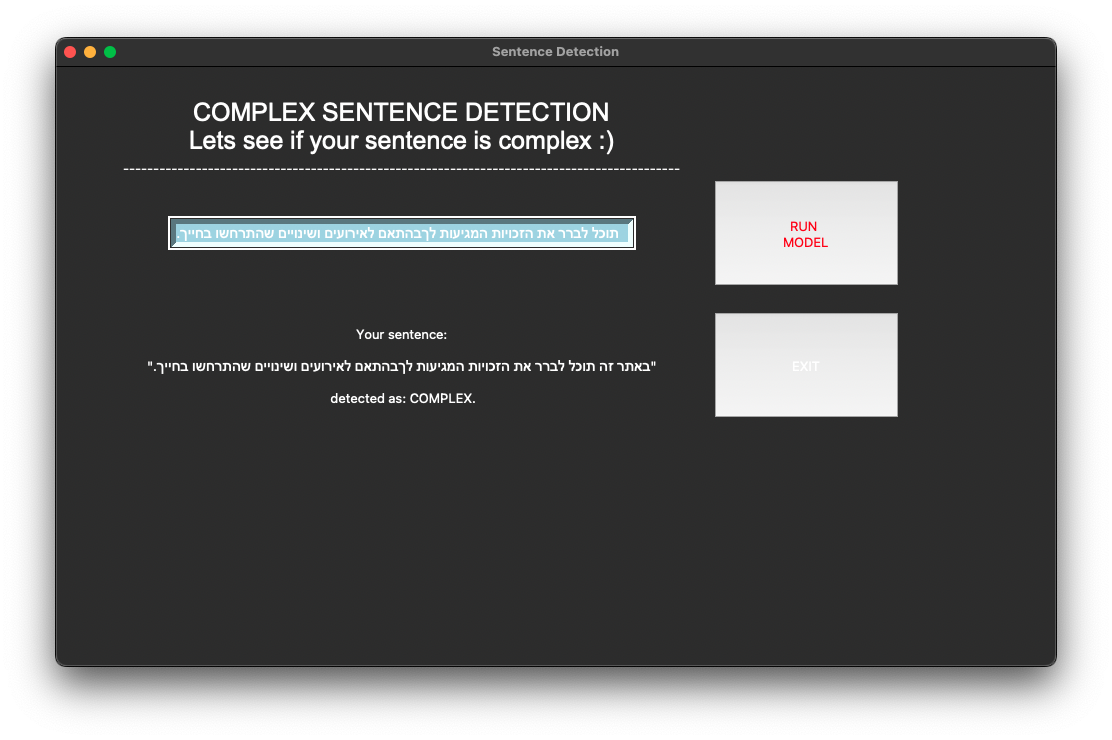
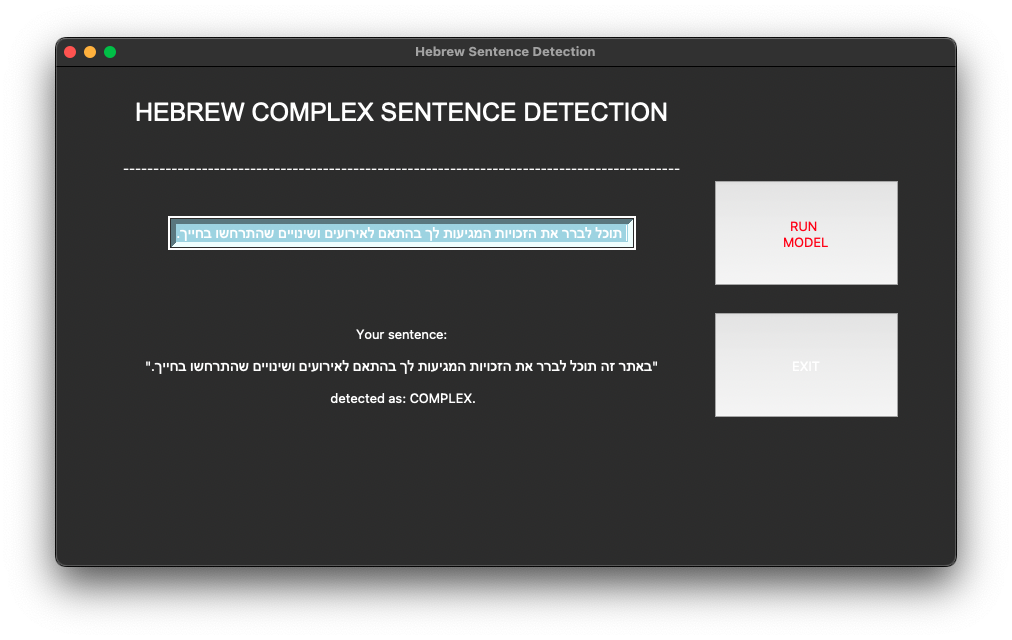
img

diff --git a/app.py b/app.py
@@ -326,14 +326,14 @@ def sentenceSimplification():
 
 
 userUI = Tk()
-userUI.title('Sentence Detection')
-userUI.geometry("1000x600")
+userUI.title('Hebrew Sentence Detection')
+userUI.geometry("900x500")
 
 
 kav = Label(userUI, text='                ')
 kav.grid(row=0, column=0)
 
-headerLabel = Label(userUI, text='\nCOMPLEX SENTENCE DETECTION\nLets see if your sentence is complex :)', font=("Arial", 25))
+headerLabel = Label(userUI, text='\nHEBREW COMPLEX SENTENCE DETECTION\n', font=("Arial", 25))
 
 headerLabel.grid(row=0, column=1)
 kav = Label(userUI, text='------------------------------' +
